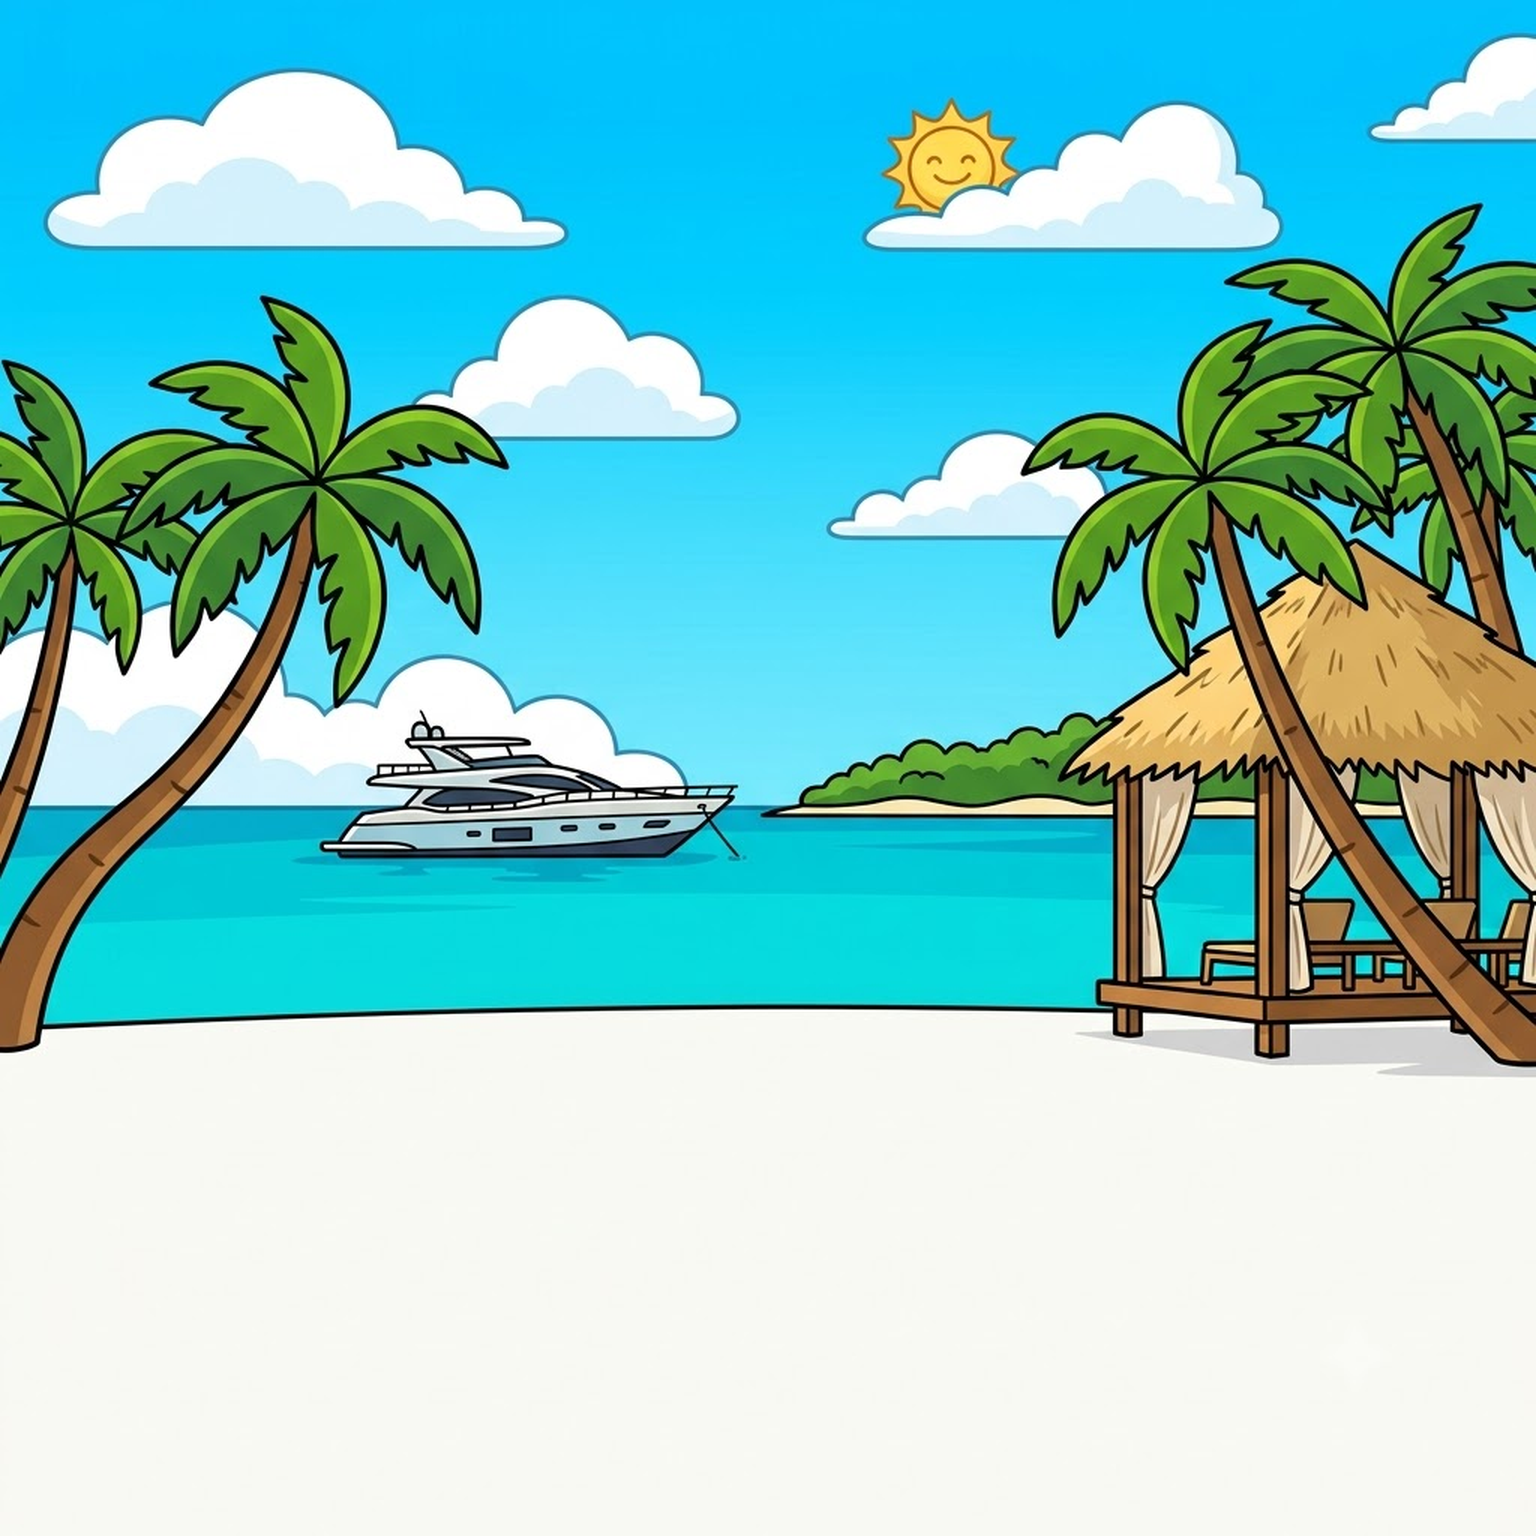
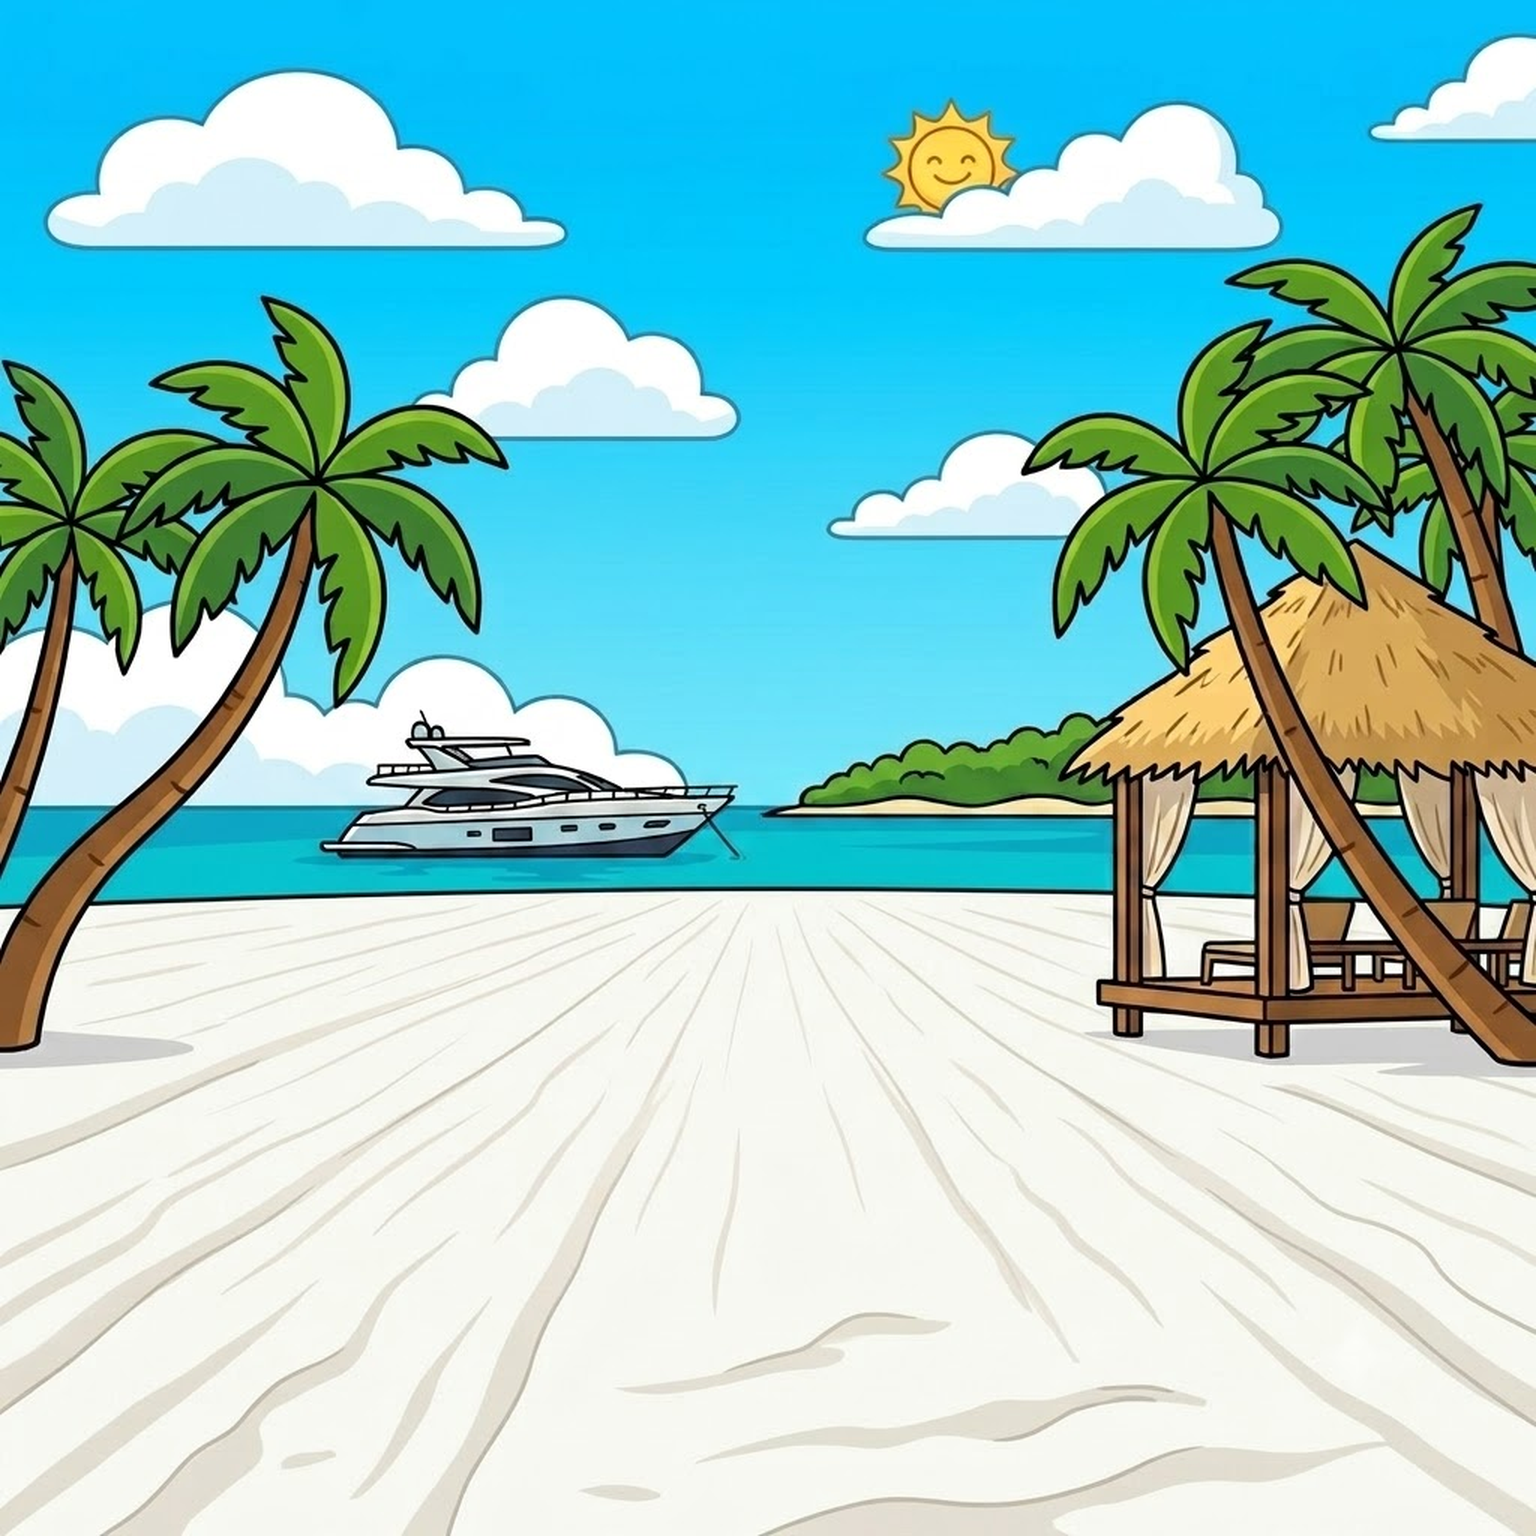
feat(arte): los 8 fondos que faltaban, y la zona de juego crece con ellos
Cierra el pedido: los 10 pisos tienen ahora piso dibujado en perspectiva, y la
banda de personajes usa ese espacio en vez de quedarse donde estaba.

**El arte.** Los 8 restantes (urban, corporate, luxury, island, moon, mars,
solar, god_realm) con el prompt de la tercera iteración. Revisados de a uno:
urban conserva el kiosco, la parada y el Obelisco; island la lancha y el quincho;
god_realm resolvió bien el caso abstracto, con nubes en perspectiva.

**Dos cambios de código que el arte hizo necesarios**, y el segundo no estaba
previsto:

1. `crowdTopRatio` 0,40 → **0,44**. Es la mitad del pedido que faltaba: sin esto
   había más piso dibujado y la misma zona jugable.

2. **`backgroundOffset` a 0 en urban (0,135), island (0,18), moon (0,12) y mars
   (0,118).** Ese knob existía para HUNDIR la franja plana inferior del arte
   viejo debajo del slot. Con el arte nuevo esa franja es justamente el piso que
   se generó, así que el offset lo empujaba fuera de pantalla: island habría
   quedado con 31% de piso visible —por DEBAJO de la banda de personajes— en vez
   de 48%. El bug quedaba vivo en 4 de los 10 pisos.

**Por qué 0,44 y no 0,45.** Medido en el juego, no calculado: en el callejón el
adoquinado arranca al 54,5% de la pantalla, y la banda llega al 56% desde arriba
—apenas por debajo—. Con 0,45 el techo de la banda quedaba justo encima de la
línea del piso y los de atrás volvían a flotar. La aritmética de `FloorNode`
[…]

diff --git a/FisuEvolutionUITests/AscentRenderingUITests.swift b/FisuEvolutionUITests/AscentRenderingUITests.swift
@@ -42,7 +42,12 @@ final class AscentRenderingUITests: XCTestCase {
         // filas se reparten ese alto — el ancla de cada una queda a medio
         // deambular de su extremo.
         let bottomInset: CGFloat = 110
-        let crowdTopRatio: CGFloat = 0.4
+        // Espejo de `BoardScene.crowdTopRatio`. Subió de 0,40 a 0,44 el
+        // 2026-08-10, cuando los 10 fondos se regeneraron con más piso: la banda
+        // de personajes creció con el arte. Este test está salteado por la
+        // trampa 3, pero un espejo desactualizado le haría calcular coordenadas
+        // de arrastre equivocadas el día que se arregle.
+        let crowdTopRatio: CGFloat = 0.44
         let rows: CGFloat = 2
         let floorY = cell * 0.55
         let topY = max(floorY, height * crowdTopRatio - bottomInset)

diff --git a/FisuEvolution/Scenes/BoardScene.swift b/FisuEvolution/Scenes/BoardScene.swift
@@ -145,7 +145,7 @@ final class BoardScene: SKScene {
     /// **Éste es EL knob del alto de la multitud.** 0,5 los lleva a la mitad
     /// exacta de la pantalla; 0,4 los deja apenas arriba del tercio inferior,
     /// que es la zona que los fondos tienen autorada como transitable.
-    static let crowdTopRatio: CGFloat = 0.4
+    static let crowdTopRatio: CGFloat = 0.44
     /// Amplitud horizontal del deambular, centrada en el ancla (±la mitad).
     static let wanderHorizontalRange: CGFloat = 34
     /// Velocidad del deambular, en puntos por segundo. La duración de cada paso

diff --git a/Tools/asset-pipeline/prompts/gemini_pro/49_bg_corporate.md b/Tools/asset-pipeline/prompts/gemini_pro/49_bg_corporate.md
@@ -2,7 +2,7 @@
 
 - **archivo**: `bg_corporate.png`
 - **referencia**: adjuntar `dropbox/procesadas/bg_corporate.ORIGINAL-2026-08.png`
-- **estado**: pendiente
+- **estado**: hecho
 - **destino**: Tools/asset-pipeline/dropbox/
 
 ## Prompt

diff --git a/Tools/asset-pipeline/prompts/gemini_pro/57_bg_god_realm.md b/Tools/asset-pipeline/prompts/gemini_pro/57_bg_god_realm.md
@@ -2,7 +2,7 @@
 
 - **archivo**: `bg_god_realm.png`
 - **referencia**: adjuntar `dropbox/procesadas/bg_god_realm.ORIGINAL-2026-08.png`
-- **estado**: pendiente
+- **estado**: hecho
 - **destino**: Tools/asset-pipeline/dropbox/
 
 ## Prompt

diff --git a/Tools/asset-pipeline/prompts/gemini_pro/50_bg_luxury.md b/Tools/asset-pipeline/prompts/gemini_pro/50_bg_luxury.md
@@ -2,7 +2,7 @@
 
 - **archivo**: `bg_luxury.png`
 - **referencia**: adjuntar `dropbox/procesadas/bg_luxury.ORIGINAL-2026-08.png`
-- **estado**: pendiente
+- **estado**: hecho
 - **destino**: Tools/asset-pipeline/dropbox/
 
 ## Prompt

diff --git a/Tools/asset-pipeline/prompts/gemini_pro/51_bg_island.md b/Tools/asset-pipeline/prompts/gemini_pro/51_bg_island.md
@@ -2,7 +2,7 @@
 
 - **archivo**: `bg_island.png`
 - **referencia**: adjuntar `dropbox/procesadas/bg_island.ORIGINAL-2026-08.png`
-- **estado**: pendiente
+- **estado**: hecho
 - **destino**: Tools/asset-pipeline/dropbox/
 
 ## Prompt

diff --git a/Tools/asset-pipeline/prompts/gemini_pro/48_bg_urban.md b/Tools/asset-pipeline/prompts/gemini_pro/48_bg_urban.md
@@ -2,7 +2,7 @@
 
 - **archivo**: `bg_urban.png`
 - **referencia**: adjuntar `dropbox/procesadas/bg_urban.ORIGINAL-2026-08.png`
-- **estado**: pendiente
+- **estado**: hecho
 - **destino**: Tools/asset-pipeline/dropbox/
 
 ## Prompt

diff --git a/Tools/asset-pipeline/prompts/gemini_pro/54_bg_solar.md b/Tools/asset-pipeline/prompts/gemini_pro/54_bg_solar.md
@@ -2,7 +2,7 @@
 
 - **archivo**: `bg_solar.png`
 - **referencia**: adjuntar `dropbox/procesadas/bg_solar.ORIGINAL-2026-08.png`
-- **estado**: pendiente
+- **estado**: hecho
 - **destino**: Tools/asset-pipeline/dropbox/
 
 ## Prompt

diff --git a/Tools/asset-pipeline/prompts/gemini_pro/52_bg_moon.md b/Tools/asset-pipeline/prompts/gemini_pro/52_bg_moon.md
@@ -2,7 +2,7 @@
 
 - **archivo**: `bg_moon.png`
 - **referencia**: adjuntar `dropbox/procesadas/bg_moon.ORIGINAL-2026-08.png`
-- **estado**: pendiente
+- **estado**: hecho
 - **destino**: Tools/asset-pipeline/dropbox/
 
 ## Prompt

diff --git a/Tools/asset-pipeline/prompts/gemini_pro/53_bg_mars.md b/Tools/asset-pipeline/prompts/gemini_pro/53_bg_mars.md
@@ -2,7 +2,7 @@
 
 - **archivo**: `bg_mars.png`
 - **referencia**: adjuntar `dropbox/procesadas/bg_mars.ORIGINAL-2026-08.png`
-- **estado**: pendiente
+- **estado**: hecho
 - **destino**: Tools/asset-pipeline/dropbox/
 
 ## Prompt
